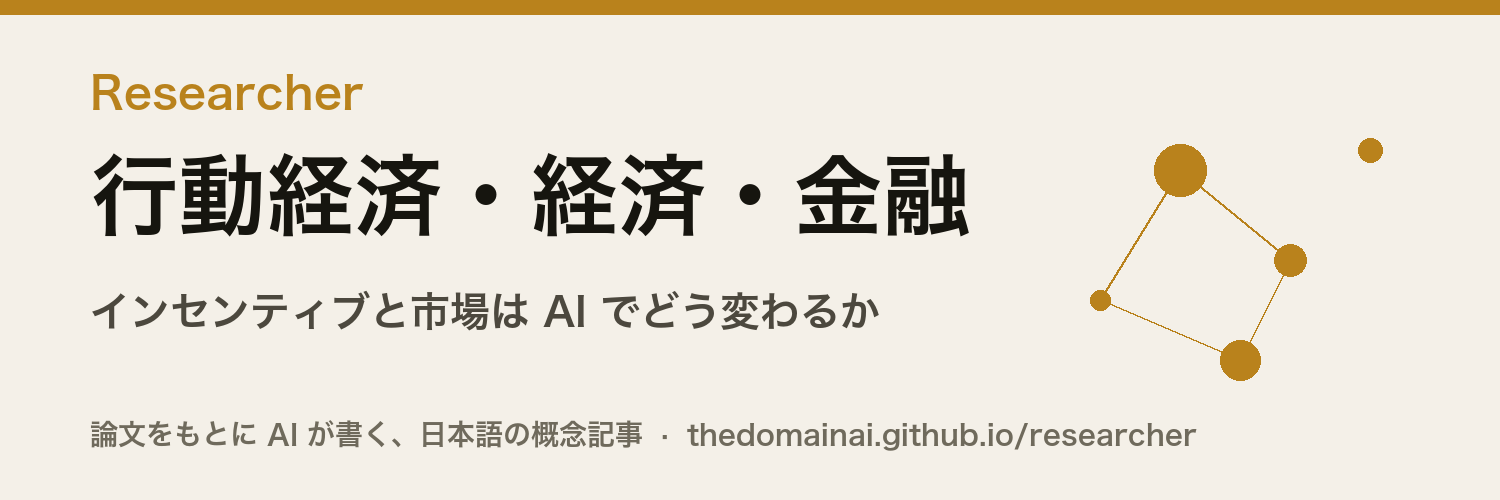
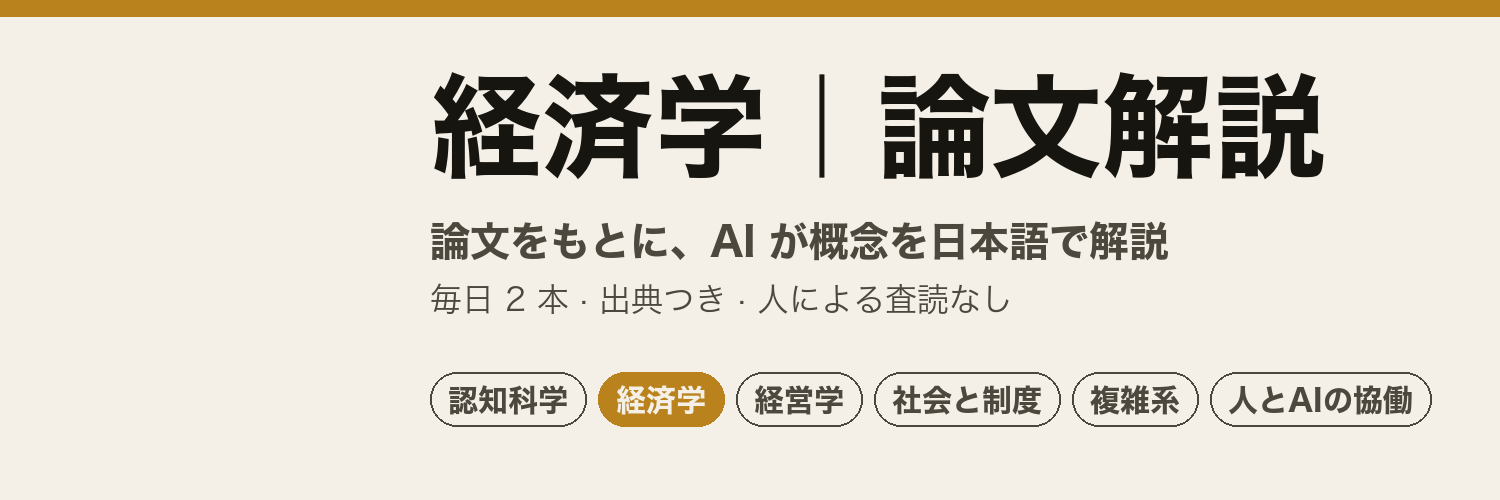
feat(x): finalize account names as <field>｜論文解説 and build source lines from the bibliography
Names, handles (ronbun_*), bios, pinned post and avatar/header images are
generated from config/x_accounts.yaml by tools/build_x_assets.py. Posts now
use a fixed 【concept】body / source / hashtags / URL layout; the source line is
built from the index bibliography and articles without one are not posted.

diff --git a/tools/post_x.py b/tools/post_x.py
@@ -2,8 +2,9 @@
 """領域クラスター別の X アカウントへ、公開サイトの記事を自動投稿する。
 
 選定: そのクラスターの未投稿記事から、新着(new_article_days 以内に公開)→ Tier 1 → Tier 2 の順。
-本文: claude -p(haiku、サブスクリプション課金)で 110 字以内の日本語の紹介文を作り、記事 URL を添える。
-      LLM が使えないときは「タイトル + 説明」の定型文で代替する。
+本文: 【概念名】+ claude -p(haiku、サブスクリプション課金)が書く 80 字以内の紹介文 + 出典の行 + ハッシュタグ + URL。
+      出典の行は索引の書誌から機械的に作る(LLM に書かせない)。作れない記事は投稿しない。
+      LLM が使えないときは記事の要約で代替する。
 記録: config/x_post_state.json(slug ごとの投稿日時・tweet id)。同じ記事は同じアカウントに二度投稿しない。
 鍵:   .env の X_CONSUMER_KEY / X_CONSUMER_SECRET と、アカウントごとの <PREFIX>_ACCESS_TOKEN / _ACCESS_SECRET。
       鍵の無いアカウントは静かにスキップする(日次パイプラインを止めない)。
@@ -35,14 +36,14 @@ STATE = BASE / "config" / "x_post_state.json"
 URL_LENGTH = 23  # X は URL を t.co で 23 字に数える
 TEXT_LIMIT = 280
 
-SYSTEM_PROMPT = """あなたは研究ナレッジベース「Researcher」の編集者です。学術論文をもとに生成された日本語記事を、X(旧 Twitter)で紹介する投稿文を書きます。
+SYSTEM_PROMPT = """あなたは研究ナレッジベース「Researcher」の編集者です。学術論文をもとに生成された日本語記事を、X(旧 Twitter)で紹介する本文を書きます。
 
 制約:
-- 日本語。全角 110 字以内(URL は後から別に付けるので含めない)
+- 日本語。全角 80 字以内。見出し・出典・ハッシュタグ・URL は別の処理で付けるので、本文には含めない
 - 記事の核心の洞察を 1 つ、具体的に書く。「〜について解説」のような空疎な要約は禁止
 - 煽り・誇張・断定の強すぎる表現は禁止。論文に基づく記述であることが伝わる落ち着いた文体
-- 絵文字は使わない。ハッシュタグは最大 2 つ、末尾にまとめる(例: #組織設計 #AI)
-- 出力は投稿文だけ。前置き・引用符・説明は不要"""
+- 概念名(見出し)をそのまま繰り返さない。絵文字は使わない
+- 出力は本文だけ。前置き・引用符・説明は不要"""
 
 
 def load_state():
@@ -63,37 +64,67 @@ def weighted_len(text):
     return total
 
 
-def fallback_text(item, cluster_label, hashtags):
-    body = "【%s】%s" % (item["title"], item["description"])
-    body = build_site.truncate(body, 100)
-    return "%s\n%s" % (body, " ".join(hashtags)) if hashtags else body
+def surname(authors):
+    first = re.split(r",|;", authors)[0].strip()
+    first = re.sub(r"\s*ほか$", "", first).strip()
+    return first.split()[-1] if first.split() else ""
 
 
-def generate_text(item, cluster_label, hashtags, use_llm=True):
+def source_line(item):
+    """出典の行。索引の書誌(著者・年)から機械的に作り、LLM には書かせない。作れなければ None。"""
+    _body, _tail, records = build_site.split_article(item["markdown"], item["slug"], drop_related=False)
+    metas = [build_site.source_meta(r) for r in records]
+    metas = [m for m in metas if m["authors"] and m["year"] and surname(m["authors"])]
+    if not metas:
+        return None
+    main = metas[0]
+    names = [a for a in re.split(r",|;", re.sub(r"\s*ほか$", "", main["authors"])) if a.strip()]
+    many = main["authors"].rstrip().endswith("ほか") or len(names) >= 3
+    if len(names) == 2 and not many:
+        who = "%s & %s" % (surname(names[0]), surname(names[1]))
+    elif many:
+        who = "%s ほか" % surname(names[0])
+    else:
+        who = surname(names[0])
+    line = "出典: %s (%s)" % (who, main["year"])
+    if len(metas) > 1:
+        line += "、計 %d 本" % len(metas)
+    return line
+
+
+def fallback_body(item):
+    return build_site.truncate(item["description"], 78)
+
+
+def generate_body(item, cluster_label, use_llm=True):
     if use_llm:
         prompt = (
-            "記事タイトル: %s\n領域: %s\n要約: %s\n使ってよいハッシュタグ: %s\n\n本文(冒頭):\n%s\n\n上の記事を紹介する投稿文を 1 つ書いてください。"
-            % (item["title"], cluster_label, item["description"], " ".join(hashtags) or "なし", item["markdown"][:2500])
+            "記事タイトル: %s\n領域: %s\n要約: %s\n\n本文(冒頭):\n%s\n\n上の記事を紹介する本文を 1 つ書いてください。"
+            % (item["title"], cluster_label, item["description"], item["markdown"][:2500])
         )
         try:
             text, _usage = call_claude(prompt, SYSTEM_PROMPT, model="haiku", timeout=180, retries=2)
             text = text.strip().strip('"「」')
-            if text and len(text) <= 150:
+            if text and len(text) <= 90 and "#" not in text and "http" not in text:
                 return text, "llm"
         except AuthError as exc:
             print("post_x: claude の認証切れ。定型文で代替します(%s)" % str(exc)[:80], file=sys.stderr)
         except Exception as exc:  # noqa: BLE001
             print("post_x: 投稿文の生成に失敗。定型文で代替します(%s)" % str(exc)[:120], file=sys.stderr)
-    return fallback_text(item, cluster_label, hashtags), "fallback"
+    return fallback_body(item), "fallback"
 
 
-def compose(text, url):
-    full = "%s\n%s" % (text, url)
-    # URL は 23 字換算なので、本文側だけで上限を見る
-    while weighted_len(text) + 1 + URL_LENGTH > TEXT_LIMIT and len(text) > 10:
-        text = text[:-1]
-        full = "%s…\n%s" % (text.rstrip(), url)
-    return full
+def compose(title, body, source, hashtags, url):
+    """【概念名】本文 / 出典 / ハッシュタグ / URL。上限を超えるときは本文だけを削る。"""
+    head = "【%s】" % title
+    tail = "\n".join(filter(None, [source, " ".join(hashtags)]))
+    fixed = weighted_len(head) + weighted_len(tail) + 2 + 1 + URL_LENGTH   # 改行 3 つぶんを含む
+    room = TEXT_LIMIT - fixed
+    if weighted_len(body) > room:
+        while body and weighted_len(body) + 2 > room:
+            body = body[:-1]
+        body = body.rstrip("、。 ") + "…"
+    return "%s%s\n%s\n%s" % (head, body, tail, url)
 
 
 def pick_candidates(catalog, cluster_key, posted, new_days, limit):
@@ -105,6 +136,8 @@ def pick_candidates(catalog, cluster_key, posted, new_days, limit):
         key = "%s:%s" % (cluster_key, item["slug"])
         if key in posted:
             continue
+        if source_line(item) is None:
+            continue   # 出典を示せない記事は投稿しない(プロフィールで「出典つき」と述べているため)
         try:
             published = dt.datetime.fromisoformat(item["published"])
             if published.tzinfo is None:
@@ -165,8 +198,8 @@ def main():
             continue
         for item in candidates:
             url = "%s/%s" % (base_url, item["path"])
-            text, source = generate_text(item, labels[cluster], hashtags, use_llm=not args.no_llm)
-            full = compose(text, url)
+            body, source = generate_body(item, labels[cluster], use_llm=not args.no_llm)
+            full = compose(item["title"], body, source_line(item), hashtags, url)
             if args.dry_run:
                 print("\n--- [%s] %s (%s)\n%s" % (cluster, item["slug"], source, full))
                 continue

diff --git a/tools/build_x_assets.py b/tools/build_x_assets.py
@@ -1,0 +1,126 @@
+#!/usr/bin/env python3
+"""X アカウントのアイコン・ヘッダー画像と、プロフィール文・固定ポストの文面を config/x_accounts.yaml から作る。
+
+出力:
+  config/site_assets/x/avatar-<cluster>.png   400x400(領域色の円 + 領域の 2 字 + 「論文解説」)
+  config/site_assets/x/header-<cluster>.png   1500x500
+標準出力: アカウントごとの表示名・ハンドル・プロフィール文・固定ポスト(文字数の検査つき)
+
+使い方: python3 tools/build_x_assets.py [--text-only]
+"""
+
+import argparse
+import sys
+from pathlib import Path
+
+import yaml
+
+BASE = Path(__file__).resolve().parent.parent
+ACCOUNTS = BASE / "config" / "x_accounts.yaml"
+SITE = BASE / "config" / "site.yaml"
+OUT = BASE / "config" / "site_assets" / "x"
+
+PAPER = (244, 240, 232)
+INK = (22, 21, 15)
+INK2 = (76, 72, 62)
+COLORS = {
+    "cognition": (79, 99, 216), "economics": (185, 130, 28), "organization": (213, 64, 42),
+    "society": (63, 133, 82), "systems": (18, 143, 150), "ai": (141, 79, 199),
+}
+FONT_BOLD = "/System/Library/Fonts/ヒラギノ角ゴシック W7.ttc"
+FONT_REG = "/System/Library/Fonts/ヒラギノ角ゴシック W3.ttc"
+BIO_LIMIT = 160
+POST_LIMIT = 280
+URL_LENGTH = 23
+
+
+def weighted_len(text):
+    return sum(2 if ord(ch) > 0x2E7F else 1 for ch in text)
+
+
+def texts(spec, site_url):
+    defaults = spec["defaults"]
+    rows = []
+    for account in spec["accounts"]:
+        others = " ".join("@" + a["handle"] for a in spec["accounts"] if a["cluster"] != account["cluster"])
+        bio = defaults["bio_template"].format(label=account["label"], scope=account["scope"])
+        pinned = defaults["pinned_template"].format(label=account["label"], others=others, url=site_url + "/guide/")
+        shown = pinned.replace(site_url + "/guide/", "x" * URL_LENGTH)
+        rows.append({"account": account, "bio": bio, "pinned": pinned,
+                     "bio_len": len(bio), "pinned_len": weighted_len(shown)})
+    return rows
+
+
+def avatar(account, path):
+    from PIL import Image, ImageDraw, ImageFont
+    size = 400
+    color = COLORS[account["cluster"]]
+    image = Image.new("RGB", (size, size), color)
+    draw = ImageDraw.Draw(image)
+    big = ImageFont.truetype(FONT_BOLD, 150)
+    small = ImageFont.truetype(FONT_BOLD, 46)
+    draw.text((size / 2, 175), account["avatar_text"], font=big, fill=PAPER, anchor="mm")
+    draw.line([(130, 262), (270, 262)], fill=PAPER, width=4)
+    draw.text((size / 2, 312), "論文解説", font=small, fill=PAPER, anchor="mm")
+    image.save(path)
+
+
+def header(account, accounts, path):
+    from PIL import Image, ImageDraw, ImageFont
+    w, h = 1500, 500
+    color = COLORS[account["cluster"]]
+    image = Image.new("RGB", (w, h), PAPER)
+    draw = ImageDraw.Draw(image)
+    draw.rectangle([0, 0, w, 16], fill=color)
+    x = 430   # 左下にアイコンが重なるので、本文は右へ寄せる
+    heading = "%s｜論文解説" % account["label"]
+    size = 112
+    title = ImageFont.truetype(FONT_BOLD, size)
+    while draw.textlength(heading, font=title) > w - x - 60 and size > 60:
+        size -= 4
+        title = ImageFont.truetype(FONT_BOLD, size)
+    sub = ImageFont.truetype(FONT_BOLD, 40)
+    note = ImageFont.truetype(FONT_REG, 32)
+    chip = ImageFont.truetype(FONT_BOLD, 30)
+    draw.text((x, 70 + (112 - size) // 2), heading, font=title, fill=INK)
+    draw.text((x, 220), "論文をもとに、AI が概念を日本語で解説", font=sub, fill=INK2)
+    draw.text((x, 282), "毎日 2 本 · 出典つき · 人による査読なし", font=note, fill=INK2)
+    # 全 6 領域の並び。自分の領域だけ色で塗る
+    cx, cy = x, 372
+    for other in accounts:
+        label = other["label"]
+        width = int(draw.textlength(label, font=chip)) + 36
+        if other["cluster"] == account["cluster"]:
+            draw.rounded_rectangle([cx, cy, cx + width, cy + 54], radius=27, fill=color)
+            draw.text((cx + width / 2, cy + 27), label, font=chip, fill=PAPER, anchor="mm")
+        else:
+            draw.rounded_rectangle([cx, cy, cx + width, cy + 54], radius=27, outline=INK2, width=2)
+            draw.text((cx + width / 2, cy + 27), label, font=chip, fill=INK2, anchor="mm")
+        cx += width + 12
+    image.save(path)
+
+
+def main():
+    parser = argparse.ArgumentParser()
+    parser.add_argument("--text-only", action="store_true", help="画像を作らず、文面と文字数の検査だけ行う")
+    args = parser.parse_args()
+    spec = yaml.safe_load(ACCOUNTS.read_text(encoding="utf-8"))
+    site_url = yaml.safe_load(SITE.read_text(encoding="utf-8"))["site"]["url"]
+    failed = False
+    for row in texts(spec, site_url):
+        account = row["account"]
+        print("[%s] %s  @%s" % (account["cluster"], account["display_name"], account["handle"]))
+        print("  プロフィール(%d 字 / %d): %s" % (row["bio_len"], BIO_LIMIT, row["bio"]))
+        print("  固定ポスト(換算 %d / %d): %s" % (row["pinned_len"], POST_LIMIT, row["pinned"]))
+        if row["bio_len"] > BIO_LIMIT or row["pinned_len"] > POST_LIMIT or len(account["handle"]) > 15:
+            failed = True
+            print("  !! 上限超過", file=sys.stderr)
+        if not args.text_only:
+            OUT.mkdir(parents=True, exist_ok=True)
+            avatar(account, OUT / ("avatar-%s.png" % account["cluster"]))
+            header(account, spec["accounts"], OUT / ("header-%s.png" % account["cluster"]))
+    return 1 if failed else 0
+
+
+if __name__ == "__main__":
+    sys.exit(main())
